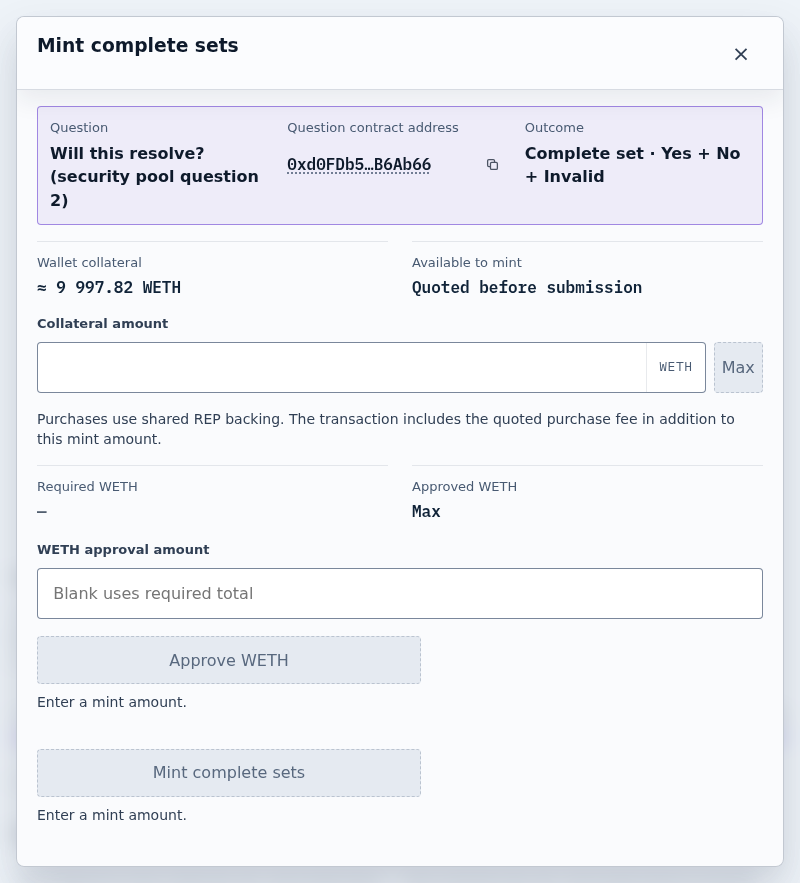
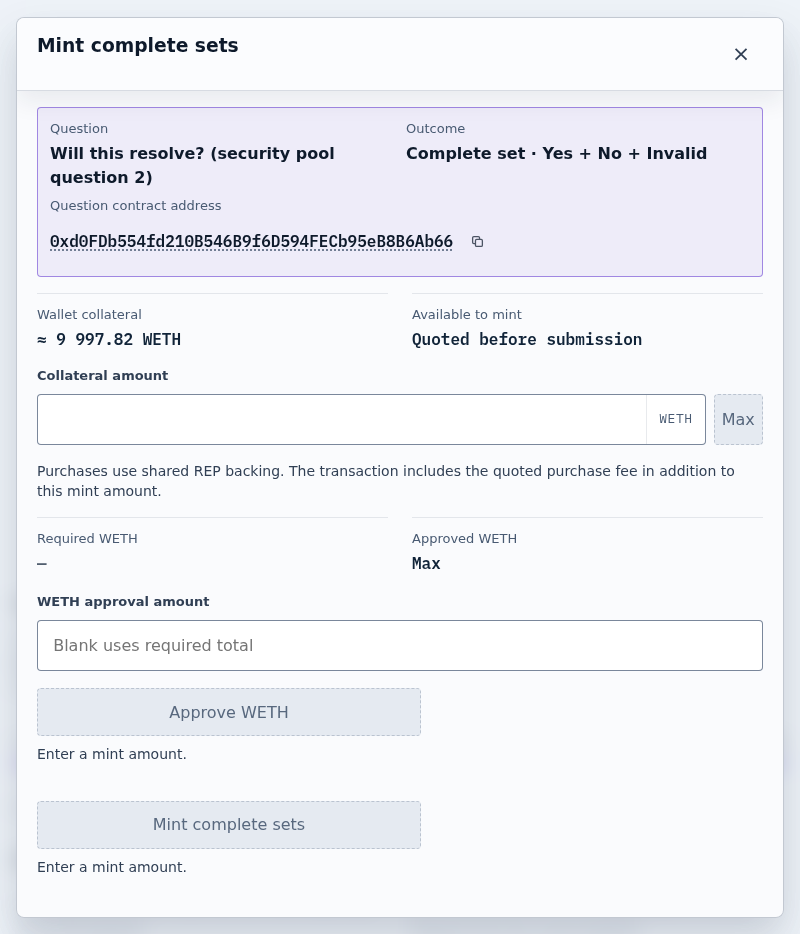
Keep transaction review addresses readable at narrow widths

diff --git a/ui/coreShared/ts/tests/transactionStepsModal.test.tsx b/ui/coreShared/ts/tests/transactionStepsModal.test.tsx
@@ -229,7 +229,8 @@ test('explains a step without token funding using its description, the operation
 	const dom = installDomEnvironment()
 	const controller = createTransactionStepController()
 	const contractAddress = '0x00000000000000000000000000000000000000aa'
-	const description = 'Create the binary question and deploy its question ledger in one transaction.'
+	const recipient = '0x1234567890abcdef1234567890abcdef12345678'
+	const description = `Create the binary question and deploy its question ledger for ${recipient} in one transaction.`
 	controller.setPlan([{ title: 'Create question and question ledger', description, contractAddress, contractLabel: 'Multicall3', spender: undefined, amount: undefined, ethValueAttoEth: 0n }])
 	const review = controller.review()
 	const rendered = await renderIntoDocument(
@@ -249,7 +250,11 @@ test('explains a step without token funding using its description, the operation
 	try {
 		const queries = within(rendered.container)
 		expect(rendered.container.querySelector('.modal-header h3')?.textContent).toBe('Create question and question ledger')
-		expect(queries.getByText(description)).not.toBeNull()
+		const explanation = rendered.container.querySelector('.transaction-step-content > .detail')
+		expect(explanation?.textContent).toContain('Create the binary question and deploy its question ledger for ')
+		expect(explanation?.querySelector('.address-value-full')?.textContent).toBe(recipient)
+		expect(explanation?.querySelector('.address-value-abbreviated')?.textContent).toBe('0x1234567890…ef12345678')
+		expect(queries.getByRole('button', { name: `Copy address ${recipient}` })).not.toBeNull()
 		expect(queries.getByText('Question ID')).not.toBeNull()
 		expect(queries.getByText('123')).not.toBeNull()
 		expect(queries.getByText('Statoblast security multiplier')).not.toBeNull()
@@ -259,6 +264,7 @@ test('explains a step without token funding using its description, the operation
 		expect(rendered.container.querySelector('details .address-value')?.getAttribute('title')).toBe(contractAddress)
 		expect(rendered.container.querySelector('details dd')?.textContent).toContain(`Multicall3 ${contractAddress}`)
 		expect(rendered.container.querySelector('details dd .address-value-full')?.textContent).toBe(contractAddress)
+		expect([...rendered.container.querySelectorAll('details .address-value-abbreviated')].map(form => form.textContent)).toEqual([`${contractAddress.slice(0, 12)}…${contractAddress.slice(-10)}`])
 		expect(queries.getByRole('button', { name: `Copy address ${contractAddress}` })).not.toBeNull()
 		expect(rendered.container.querySelector(`details a[href="https://sepolia.etherscan.io/address/${contractAddress}"]`)).not.toBeNull()
 		await act(() => {

diff --git a/ui/coreShared/ts/components/TransactionStepsContent.tsx b/ui/coreShared/ts/components/TransactionStepsContent.tsx
@@ -6,6 +6,7 @@ import * as transactionCopy from '../copy/transaction.js'
 import { AddressValue } from './AddressValue.js'
 import { ReadOnlyDetailAccordion } from './ReadOnlyDetailAccordion.js'
 import { TransactionObjectContext } from './TransactionObjectContext.js'
+import { TransactionDetailText } from './TransactionPresentationNotice.js'
 import type { ActionAvailability, GlobalTransactionRow } from '../types/components.js'
 import type { Address } from '@zoltar/core-shared/evm/ethereum'
 import { GlobalTransactionPresentationProvider, useGlobalTransactionPresentation } from './GlobalTransactionPresentationContext.js'
@@ -17,21 +18,20 @@ import { isTransactionStepInFlight, transactionSteps } from '../transactions/tra
 function TransactionStepReview({ contractAddress, contractLabel, description, rows = [] }: { contractAddress: Address | undefined; contractLabel: string | undefined; description: string | undefined; rows?: GlobalTransactionRow[] | undefined }) {
 	return (
 		<>
-			{description === undefined ? undefined : <p className='detail'>{description}</p>}
-			<TransactionObjectContext items={rows} />
+			{description === undefined ? undefined : (
+				<p className='detail'>
+					<TransactionDetailText value={description} longAbbreviation />
+				</p>
+			)}
+			<TransactionObjectContext items={rows.map(row => (typeof row.value === 'string' ? { ...row, value: <TransactionDetailText value={row.value} longAbbreviation /> } : row))} />
 			{contractAddress === undefined ? undefined : (
 				<ReadOnlyDetailAccordion title={commonCopy.technicalDetails}>
 					<dl className='global-transaction-notice-rows'>
-						<div className='global-transaction-notice-row'>
+						<div className='global-transaction-notice-row transaction-review-contract-row'>
 							<dt>{transactionCopy.contract}</dt>
 							<dd>
-								{contractLabel === undefined ? (
-									<AddressValue address={contractAddress} />
-								) : (
-									<>
-										{contractLabel} <AddressValue address={contractAddress} />
-									</>
-								)}
+								{contractLabel === undefined ? undefined : <span>{contractLabel} </span>}
+								<AddressValue address={contractAddress} longAbbreviation />
 							</dd>
 						</div>
 					</dl>

diff --git a/ui/statoblastShared/css/index.css b/ui/statoblastShared/css/index.css
@@ -4494,6 +4494,16 @@ span.rep-price-status.stale,
 	display: block;
 }
 
+.statoblast-watchlist-table .address-value {
+	font-size: clamp(var(--font-label), 4vw, var(--font-caption));
+}
+
+@media (min-width: 64rem) {
+	.statoblast-watchlist-table td:has(> .address-copy-control) {
+		min-inline-size: 16rem;
+	}
+}
+
 .statoblast-watchlist-question-title {
 	overflow-wrap: anywhere;
 }
@@ -4579,6 +4589,22 @@ span.rep-price-status.stale,
 		content: attr(data-label);
 		display: block;
 		font-size: var(--font-caption);
+	}
+}
+
+@media (width < 40rem) {
+	.statoblast-watchlist-table tr:has(td:nth-child(2) > .address-copy-control) td:first-child {
+		grid-row: 5;
+		align-self: center;
+	}
+
+	.statoblast-watchlist-table td:nth-child(2):has(> .address-copy-control) {
+		grid-column: 1 / -1;
+	}
+
+	.statoblast-watchlist-table tr:has(td:nth-child(2) > .address-copy-control) td:last-child {
+		grid-column: 1;
+		grid-row: 5;
 	}
 }
 
@@ -4774,6 +4800,16 @@ span.rep-price-status.stale,
 	grid-template-columns: repeat(auto-fit, minmax(min(100%, 15rem), 1fr));
 }
 
+@media (width < 40rem) {
+	:root[data-product="statoblast"] .transaction-object-context:has(.address-value-long-abbreviation) {
+		padding-inline: var(--space-2);
+	}
+
+	:root[data-product="statoblast"] .transaction-object-context .address-value:has(.address-value-long-abbreviation) {
+		font-size: clamp(var(--font-label), 4vw, var(--font-caption));
+	}
+}
+
 :root[data-product="statoblast"] .app-frame {
 	width: min(84rem, 100%);
 }
@@ -4830,6 +4866,12 @@ span.rep-price-status.stale,
 	margin: 0;
 	min-width: 0;
 	font-size: clamp(1.15rem, 2vw, 1.65rem);
+}
+
+@media (width < 64rem) {
+	.statoblast-pool-identity h1 {
+		font-size: clamp(var(--font-caption), 4.4vw, 1.15rem);
+	}
 }
 
 .statoblast-position-picker {
@@ -5444,7 +5486,17 @@ span.rep-price-status.stale,
 }
 
 .statoblast-liquidation-table thead th:nth-child(2) {
-	width: 25%;
+	width: 27%;
+}
+
+.statoblast-liquidation-table .address-value {
+	font-size: var(--font-caption);
+}
+
+@container (width < 16rem) {
+	.statoblast-liquidation-table .address-value {
+		font-size: var(--font-label);
+	}
 }
 
 .statoblast-liquidation-table thead th:nth-child(5),

diff --git a/ui/coreShared/ts/components/AddressValue.tsx b/ui/coreShared/ts/components/AddressValue.tsx
@@ -22,6 +22,7 @@ type AddressValueProps = {
 	abbreviated?: boolean
 	className?: string
 	compactAbbreviation?: boolean
+	/** Shortens only to the first and last ten hex digits. */
 	longAbbreviation?: boolean
 	explorerProfile?: NetworkProfile | undefined
 	/** Keep the entire address visible, wrapping across lines when necessary. */
@@ -31,8 +32,8 @@ type AddressValueProps = {
 
 /** Shortened forms, longest first: a slot too narrow for one falls back to the next instead of clipping it. */
 function getAbbreviations(address: string, compactAbbreviation: boolean, longAbbreviation: boolean) {
+	if (longAbbreviation) return [abbreviateAddress(address, 12, 10)]
 	const forms = compactAbbreviation ? [abbreviateAddress(address, 6, 4), abbreviateAddress(address, 4, 4)] : [abbreviateAddress(address), abbreviateAddress(address, 6, 4), abbreviateAddress(address, 4, 4)]
-	if (longAbbreviation) forms.unshift(abbreviateAddress(address, 12, 10))
 	return forms.filter((form, index) => forms.indexOf(form) === index)
 }
 
@@ -180,12 +181,12 @@ export function AddressValue({ abbreviated = false, address, className = '', com
  * An address that shortens only when it cannot fit `slot`, a stable allocation that does not shrink with the address. The
  * control fits its content, so a copy glyph stays right after the visible text.
  */
-export function FittedAddressValue({ address, className = '', slot }: { address: string; className?: string; slot: RefObject<HTMLElement> }) {
+export function FittedAddressValue({ address, className = '', longAbbreviation, slot }: { address: string; className?: string; longAbbreviation?: boolean | undefined; slot: RefObject<HTMLElement> }) {
 	const control = useRef<HTMLSpanElement>(null)
 	const widthConstraint = useMemo(() => ({ control, slot }), [slot])
 	return (
 		<span className={`address-fit-control ${className}`.trim()} ref={control}>
-			<AddressValue address={address} widthConstraint={widthConstraint} />
+			<AddressValue address={address} longAbbreviation={longAbbreviation ?? false} widthConstraint={widthConstraint} />
 		</span>
 	)
 }

diff --git a/docs/tutorials/statoblast-first-pool.html b/docs/tutorials/statoblast-first-pool.html
@@ -41,7 +41,7 @@
 					<li>Wait for <strong>Transaction confirmed</strong>, then inspect your outcome balances under <strong>Your holdings</strong>. Each outcome has the same newly minted quantity.</li>
 				</ol>
 				<figure class="screenshot">
-					<a class="screenshot-link" href="../assets/screenshots/statoblast/security-pool-purchase.png"><img width="800" height="883" src="../assets/screenshots/statoblast/security-pool-purchase.png" alt="The question’s mint form shows the collateral amount and approval controls." loading="lazy" /></a>
+					<a class="screenshot-link" href="../assets/screenshots/statoblast/security-pool-purchase.png"><img width="800" height="934" src="../assets/screenshots/statoblast/security-pool-purchase.png" alt="The question’s mint form shows the collateral amount and approval controls." loading="lazy" /></a>
 					<figcaption><span class="figure-label">Mint controls.</span> Review the collateral and fee before continuing.</figcaption>
 				</figure>
 				<p>You have added capital and bought question shares through the same security pool. Reloading a new simulation resets its local chain; these balances are not live assets. To understand fees or exiting capital, continue with <a href="../explanation/fees.html">Fees</a> and the <a href="../reference/operator-guardrails.html#security-pool-guardrails">capital guardrails</a>.</p>

diff --git a/ui/coreShared/ts/components/TransactionPresentationNotice.tsx b/ui/coreShared/ts/components/TransactionPresentationNotice.tsx
@@ -44,13 +44,13 @@ function splitEmbeddedAddresses(value: string) {
 		.map(segment => ({ isAddress: /^0x[0-9a-fA-F]{40}$/.test(segment), segment }))
 }
 
-function TransactionDetailText({ value }: { value: string }) {
+export function TransactionDetailText({ value, longAbbreviation }: { value: string; longAbbreviation?: boolean | undefined }) {
 	const slot = useRef<HTMLSpanElement>(null)
 	const segments = splitEmbeddedAddresses(value)
 	if (!segments.some(({ isAddress }) => isAddress)) return <>{value}</>
 	return (
 		<span className='global-transaction-detail-text' ref={slot}>
-			{segments.map(({ isAddress, segment }, index) => (isAddress ? <FittedAddressValue key={index} address={segment} className='global-transaction-detail-address' slot={slot} /> : <span key={index}>{segment}</span>))}
+			{segments.map(({ isAddress, segment }, index) => (isAddress ? <FittedAddressValue key={index} address={segment} className='global-transaction-detail-address' longAbbreviation={longAbbreviation} slot={slot} /> : <span key={index}>{segment}</span>))}
 		</span>
 	)
 }

diff --git a/ui/coreShared/css/protocol-surfaces.css b/ui/coreShared/css/protocol-surfaces.css
@@ -301,6 +301,14 @@ body:has(.global-transaction-dialog) .operation-modal-panel {
 	min-width: 0;
 }
 
+.transaction-object-context dl:has(.address-value-long-abbreviation) {
+	grid-template-columns: repeat(auto-fit, minmax(min(100%, 16rem), 1fr));
+}
+
+.transaction-object-context dl > div:has(.address-value-long-abbreviation) {
+	grid-column: 1 / -1;
+}
+
 .transaction-object-context dt {
 	color: var(--muted);
 	font-size: var(--font-label);
@@ -944,6 +952,18 @@ html:has(.global-transaction-dialog-nonblocking) {
 /* Copyable values center their text inside a touch-sized button, so center the label against them. */
 .global-transaction-notice-row:has(.address-control, .identifier-value.copyable) {
 	align-items: center;
+}
+
+.transaction-review-contract-row,
+.transaction-review-contract-row dd {
+	display: flex;
+	flex-wrap: wrap;
+	align-items: center;
+	gap: var(--space-1) var(--space-2);
+}
+
+.transaction-review-contract-row dd {
+	flex: 1 1 auto;
 }
 
 .global-transaction-notice .transaction-hash-link {

diff --git a/ui/statoblastShared/ts/features/markets/components/TradingSection.tsx b/ui/statoblastShared/ts/features/markets/components/TradingSection.tsx
@@ -265,8 +265,8 @@ export function TradingSection({
 			? []
 			: [
 					{ label: commonCopy.question, value: selectedPool.marketDetails.title },
-					{ identityKey: 'security-pool', label: commonCopy.questionLedgerAddress, value: <AddressValue longAbbreviation address={selectedPool.questionLedgerAddress} /> },
 					{ identityKey: 'outcome', label: commonCopy.outcome, value: outcome },
+					{ identityKey: 'security-pool', label: commonCopy.questionLedgerAddress, value: <AddressValue longAbbreviation address={selectedPool.questionLedgerAddress} /> },
 				]
 	const toggleTargetOutcomeIndex = (outcomeIndex: bigint) => {
 		if (selectedTargetOutcomeIndexSet.has(outcomeIndex.toString())) {
